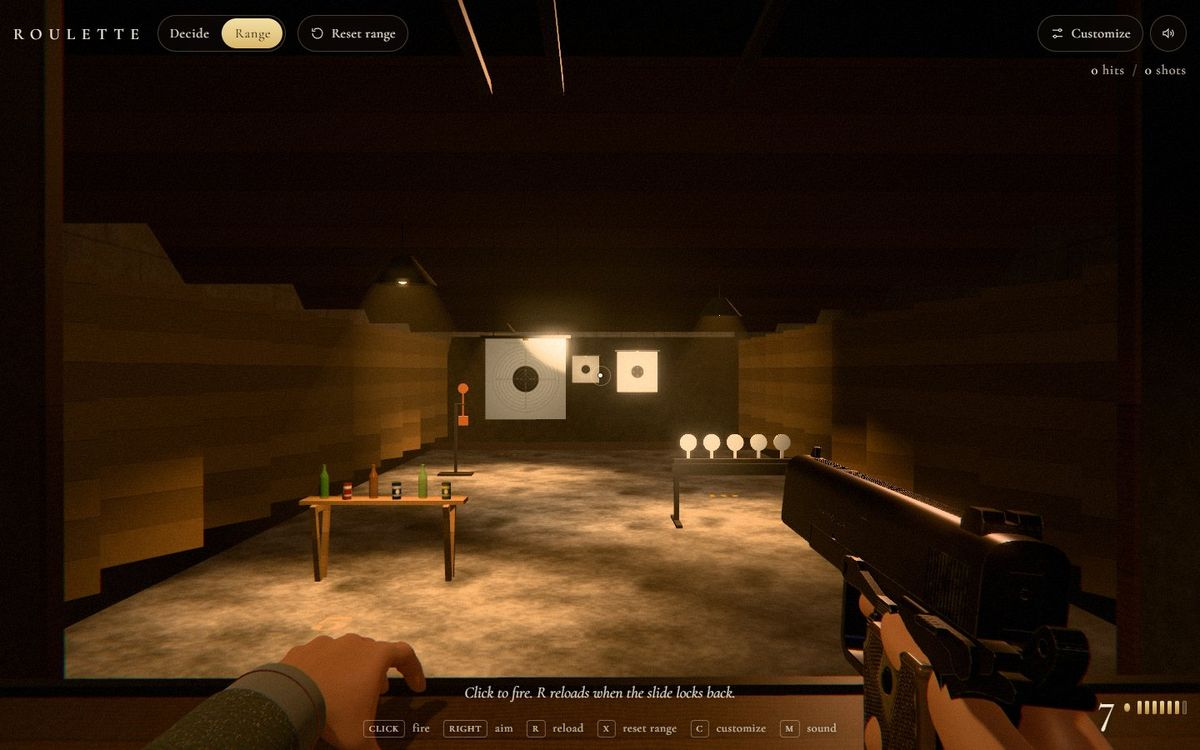
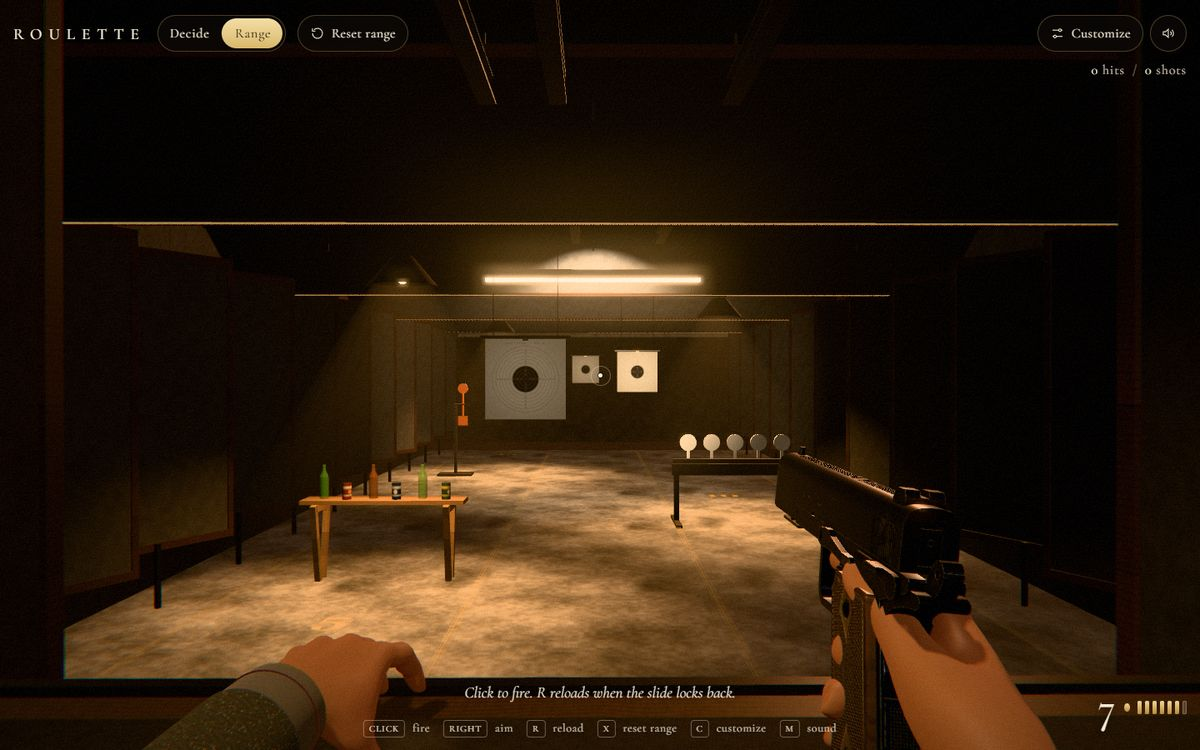
Range stills re-shot after the polish round, handoff note

diff --git a/HANDOFF.md b/HANDOFF.md
@@ -5,14 +5,14 @@
 **Done (Playwright 1440x900 Chromium, 390x844 Chromium + WebKit with touch, 0 console errors):**
 - v2 Decide: unchanged by Range (stills re-shot and compared). Revolver, paper target, Customize, coach. Stills: `docs/shots/v2/`.
 - Range (`js/range.js`, `js/pistol.js`): Decide | Range switch in the top bar (`RANGE_READY` in `js/main.js`; `?range` forces it), mode kept in `roulette.mode`.
-- Indoor range built in code: paper at 5/10/15 m (holes stay), 5 steel plates that ring and fall, bottles that break and cans that jump on a plank, a spinner. Reset range chip (X), optional hits/shots tally.
+- Indoor range built in code (acoustic baffles, lane lines and dividers, carrier rails, bench mat): paper at 5/10/15 m (holes stay), 5 steel plates that ring and fall, bottles that break and cans that jump on a plank, a spinner. Reset range chip (X), optional hits/shots tally.
 - Pistol loop: slide cycles, hammer, casing ejects and tinks, flash, smoke, recoil; slide locks after the 7th round; reload with R, the Reload button or fire on empty (tactical reload = 7+1). Support hand at ADS, magazine hand on reload.
 - Customize in Range: Gun tab = 3 pistol tiles, target set toggles, tally toggle, Reset range.
 - SW cache `roulette-v4`; precache 5.5 MB; pistol model (~1.5 MB) cached on first Range open.
 
 **Not verified:** real iPhone/Android (60 fps, haptics, audio by ear). Windows WebKit renders in software (25-55 ms frames).
 
-**Known gaps:** holes on the 10 and 15 m papers read small at desktop size; range lighting is moody/dark by design.
+**Known gaps:** range lighting is moody by design; Windows WebKit range frames 25-45 ms (software); `s-desk` d4 view drift is a pre-existing flake (also on v2 base).
 
 **Next command:** from the folder holding this repo, `py -m http.server 5291`, open http://127.0.0.1:5291/roulette/?debug&nosw
 
